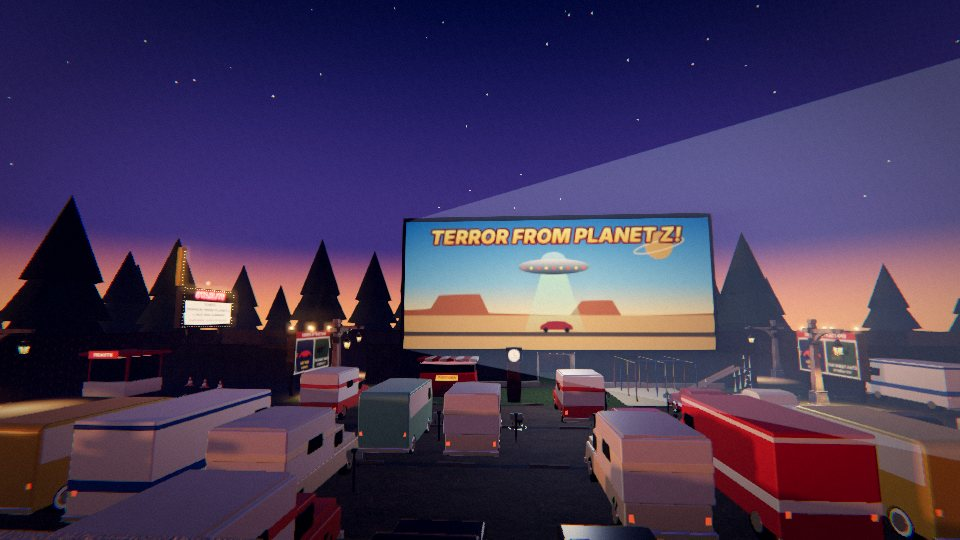
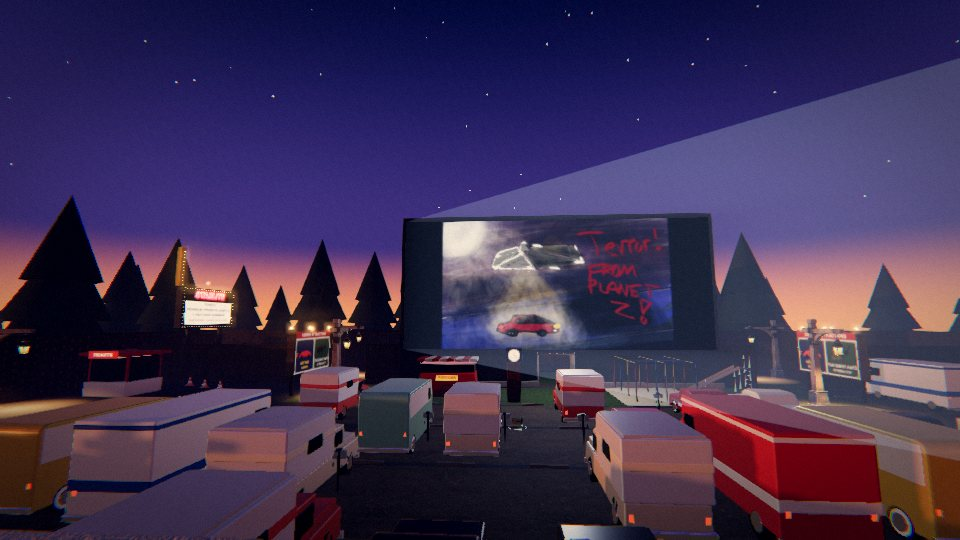
Drive-In: the screens show the owner's painting of Terror from Planet Z! (pillarboxed to the 2.4:1 screen; canvas frame as fallback); loading photo updated

diff --git a/js/drivein.js b/js/drivein.js
@@ -401,6 +401,11 @@ function build(ctx) {
   // ---------- the screens ----------
   const movie = movieTex();
   const screenMat = new THREE.MeshBasicMaterial({ map: movie, color: new THREE.Color(0.95, 0.95, 0.95) });
+  // the feature: the project owner's own painting of Terror from Planet Z! (the canvas frame shows until it loads)
+  new THREE.TextureLoader().load('assets/textures/drivein/feature.jpg', (t) => {
+    t.colorSpace = THREE.SRGBColorSpace; t.anisotropy = 8;
+    screenMat.map = t; screenMat.needsUpdate = true; movie.dispose();
+  });
   const towerTint = 0x4a5450;
   const screenTower = (cx, cz, w, d, h) => {
     const s = Math.sign(cx);

diff --git a/README.md b/README.md
@@ -11,7 +11,7 @@ Developed by cbgregg. Artificial intelligence was used to assist with developmen
 | Area | What's included |
 |---|---|
 | Look | Physical sky at dusk (sun 5° above the horizon, deep orange light, very long shadows, violet shade, street lamps casting real light pools), with Mount Rainier glowing in alpenglow on the eastern horizon with image-based lighting, real-time soft shadows, ground-truth ambient occlusion (GTAO), bloom, filmic tone mapping, color grade, vignette, chromatic aberration, film grain, SMAA. Rounded-edge geometry throughout, 4096 shadow maps on High. Photo-scanned PBR materials (albedo + normal + roughness, CC0) for asphalt, concrete, plaster, brick, corrugated steel, painted metal, wood, weathered planks, dirt, cobblestone, sandbags, cloth, HESCO and rubber, with procedural fallbacks. Height fog that hugs the ground and glows toward the sun, drifting dust motes, dust kicked up by sprinting feet and slides. Quality presets Low → Ultra |
-| Maps | Both maps are built for close-quarters fights around corners: lanes are broken by staggered houses, walls, containers and kiosks so nothing gives a straight line from one side to the other (checked automatically for long sightlines), and the divider rows are **enterable houses** with real doorways and window openings you can see and shoot through, tiled floors, shelving, tables and hanging bulbs. Brighter street lamps with pools of light (on High/Ultra each lamp is also a real spotlight that lights walls, players and the street), festoon lights strung across the mid lanes, a few warm point lights (off on Low). Solid blocks and the perimeter have proper windows: recessed glass, painted frames and mullions, stone sills, shutters, curtains and grime streaks. Sandbags are pillowy bags laid in an overlapping bond; cars are modeled sedans with arches, glass, lights and rims. **Tarsa Market** (116 × 80 m): a classic three-lane map. Spawns at the short ends; a market street (stalls, kiosks, parked cars, the market hall = bomb site B) and the yard (containers, pallets, the warehouse = bomb site A) on the outside, and a mid street into the central plaza, where the centre house with its rooftop and parapets is the power position. The map is point-mirrored, so each team gets the same routes. Two rows of buildings split the lanes, with connectors through a walk-through house, alleys and a gap at the plaza, plus a back street behind each spawn for rotating. Tall cover every 10–14 m means no standing sightline runs a lane end to end (checked automatically: the longest is under 60 m, and fewer than 0.2 % of sightlines are over 45 m). **Pioneer Square** (108 × 80 m): 1st & Yesler on the real street plan. 1st Avenue runs north–south and Yesler Way east–west; Pioneer Place is the triangle east of 1st Ave and north of Yesler, with the iron-and-glass pergola at its south end (over the stairs down to the Underground), the totem pole, plane trees and five-globe lamps. The Pioneer Building stands at the downtown grid's 32° angle on the plaza's east side: grey sandstone arcade, red-orange brick in a grid of piers and belt courses, two banded stone piers, cast-iron bays (the rounded corner bay, one over the entrance, one on James St) and the pyramid-roofed tower. James St climbs away at the same angle between it and the "Sinking Ship" garage on the old Seattle Hotel's wedge, and Smith Tower rises up Yesler. Bomb site A is down in the **Underground** (brick tunnel, timber posts, bare bulbs, glass prism lights in the sidewalk above), reached by a stairwell at each end; site B is the tavern on Yesler. Bots use both levels. Four of the brick blocks have **enterable ground floors** (stone walls with doorways and shoot-through windows on every street side, exposed-brick interiors, wood floors, pendant lamps): a café in the Mutual Life Building on the corner of 1st & Yesler, a saloon and a corner shop across Yesler, and a bookshop with rows of shelves up 1st Ave. **Drive-In** (104 × 72 m, night): a 1950s drive-in theatre at dusk, laid out by a generator (see [Drive-In](#drive-in-and-the-map-generator)). A screen tower at each end shows the feature (an original B-movie, *Terror from Planet Z!*); each team spawns in the small lawn yard behind its screen and comes out through the doorway under the screen or the gates in the wing fences. Between the screens, rows of parked 50s cars (fins, two-tone paint, whitewalls) face their screen with speaker posts between them; panel vans, pickups with camper shells and ice-cream and delivery trucks are the tall cover, cars are crouch cover. The snack bar in the middle is the hub: walk-in counter, fridges and menu board inside, stairs up both long sides to the roof and the projection booth, which throws a beam onto both screens. The perimeter road runs past the restrooms, the projection-supply shed, the box office and the marquee with chaser lights; the playground, the popcorn wagon and the "coming attractions" boards are on the lawns under the screens. **Shuran Yard**: three lanes (market street, yard, container stacks). **Freshway** (indoor): a supermarket under one roof with checkout lanes and shop windows, aisles with a cross aisle, produce, wall freezers, a bakery with rack and deck ovens, a deli, the stockroom, staff offices and a break room; the parking lot out front and the delivery yard out back are the spawns, side alleys link them. The store's ceiling speakers play bossa-nova muzak (loud inside, faint outside), and a soldier on his smoke break stands by the staff door; nothing in the match touches him. Pick a map (or Random) on the Play tab; online, guests load the host's map, and quick matches rotate randomly. |
+| Maps | Both maps are built for close-quarters fights around corners: lanes are broken by staggered houses, walls, containers and kiosks so nothing gives a straight line from one side to the other (checked automatically for long sightlines), and the divider rows are **enterable houses** with real doorways and window openings you can see and shoot through, tiled floors, shelving, tables and hanging bulbs. Brighter street lamps with pools of light (on High/Ultra each lamp is also a real spotlight that lights walls, players and the street), festoon lights strung across the mid lanes, a few warm point lights (off on Low). Solid blocks and the perimeter have proper windows: recessed glass, painted frames and mullions, stone sills, shutters, curtains and grime streaks. Sandbags are pillowy bags laid in an overlapping bond; cars are modeled sedans with arches, glass, lights and rims. **Tarsa Market** (116 × 80 m): a classic three-lane map. Spawns at the short ends; a market street (stalls, kiosks, parked cars, the market hall = bomb site B) and the yard (containers, pallets, the warehouse = bomb site A) on the outside, and a mid street into the central plaza, where the centre house with its rooftop and parapets is the power position. The map is point-mirrored, so each team gets the same routes. Two rows of buildings split the lanes, with connectors through a walk-through house, alleys and a gap at the plaza, plus a back street behind each spawn for rotating. Tall cover every 10–14 m means no standing sightline runs a lane end to end (checked automatically: the longest is under 60 m, and fewer than 0.2 % of sightlines are over 45 m). **Pioneer Square** (108 × 80 m): 1st & Yesler on the real street plan. 1st Avenue runs north–south and Yesler Way east–west; Pioneer Place is the triangle east of 1st Ave and north of Yesler, with the iron-and-glass pergola at its south end (over the stairs down to the Underground), the totem pole, plane trees and five-globe lamps. The Pioneer Building stands at the downtown grid's 32° angle on the plaza's east side: grey sandstone arcade, red-orange brick in a grid of piers and belt courses, two banded stone piers, cast-iron bays (the rounded corner bay, one over the entrance, one on James St) and the pyramid-roofed tower. James St climbs away at the same angle between it and the "Sinking Ship" garage on the old Seattle Hotel's wedge, and Smith Tower rises up Yesler. Bomb site A is down in the **Underground** (brick tunnel, timber posts, bare bulbs, glass prism lights in the sidewalk above), reached by a stairwell at each end; site B is the tavern on Yesler. Bots use both levels. Four of the brick blocks have **enterable ground floors** (stone walls with doorways and shoot-through windows on every street side, exposed-brick interiors, wood floors, pendant lamps): a café in the Mutual Life Building on the corner of 1st & Yesler, a saloon and a corner shop across Yesler, and a bookshop with rows of shelves up 1st Ave. **Drive-In** (104 × 72 m, night): a 1950s drive-in theatre at dusk, laid out by a generator (see [Drive-In](#drive-in-and-the-map-generator)). A screen tower at each end shows the feature, *Terror from Planet Z!* (painted by the project owner; `assets/textures/drivein/feature.jpg`); each team spawns in the small lawn yard behind its screen and comes out through the doorway under the screen or the gates in the wing fences. Between the screens, rows of parked 50s cars (fins, two-tone paint, whitewalls) face their screen with speaker posts between them; panel vans, pickups with camper shells and ice-cream and delivery trucks are the tall cover, cars are crouch cover. The snack bar in the middle is the hub: walk-in counter, fridges and menu board inside, stairs up both long sides to the roof and the projection booth, which throws a beam onto both screens. The perimeter road runs past the restrooms, the projection-supply shed, the box office and the marquee with chaser lights; the playground, the popcorn wagon and the "coming attractions" boards are on the lawns under the screens. **Shuran Yard**: three lanes (market street, yard, container stacks). **Freshway** (indoor): a supermarket under one roof with checkout lanes and shop windows, aisles with a cross aisle, produce, wall freezers, a bakery with rack and deck ovens, a deli, the stockroom, staff offices and a break room; the parking lot out front and the delivery yard out back are the spawns, side alleys link them. The store's ceiling speakers play bossa-nova muzak (loud inside, faint outside), and a soldier on his smoke break stands by the staff door; nothing in the match touches him. Pick a map (or Random) on the Play tab; online, guests load the host's map, and quick matches rotate randomly. |
 | Operators | Rigged, textured soldier model with motion-captured idle/walk/run animation, blended by speed; legs turn toward movement while the upper body stays on the aim; IK arms grip each weapon's pistol grip and foregrip. Procedural motion on top of the clips: one shared gait phase so walk/run blend without double-stepping and stride matches ground speed, spring-driven lean into acceleration and turns, landing compression and airborne tuck, hit flinches in the direction of each shot (head snaps on headshots), and **ragdoll deaths** (verlet skeleton seeded with the body's momentum and the killing shot's impulse, colliding with the ground and nearby cover; the gun tumbles free). The same rig provides the first-person arms and gloves (longer than life, as in every shooter, so both hands sit on the grip and foregrip; fingers close around the gun, the gun cants in during reloads so you see the hands work the magazine). Falls back to procedural operators if the model can't load |
 | Weapons | Guns built from real side-profile silhouettes with rounded edges, lathed barrels, muzzle devices and scopes. Primaries: MK-4 Carbine, KV-47, BR-308, HX-60 LMG, VX-9 SMG, KRV-45, M12 pump shotgun, SA-12 drum auto-shotgun, MR-14 marksman rifle, LR-50 bolt-action. Secondaries: P-45, D-50, R-357 revolver, MP-18 machine pistol and **The Monte** rocket launcher (splash damage, smoke trail). The newer guns are alpha models built from the procedural bases with their own furniture, magazines and barrels. Frag grenades, melee. Detailed models with glowing reticles, animated magazine reloads (faster tactical reloads), pump and bolt cycling, ejected brass, recoil with recovery, ADS breathing sway (hold breath on the sniper), damage falloff, headshots |
 | Create a Class | Call of Duty-style class list: five default classes (Assault, Rusher, Close Quarters, Marksman, Sniper) and five custom classes. Pick a class to see its primary, sidearm and attachments, then Equip it; custom classes open in the gunsmith to change the primary and attachments, and can be renamed. Default classes can be copied into a custom slot. The equipped class is what you spawn with, and changes in a match apply on the next spawn |
